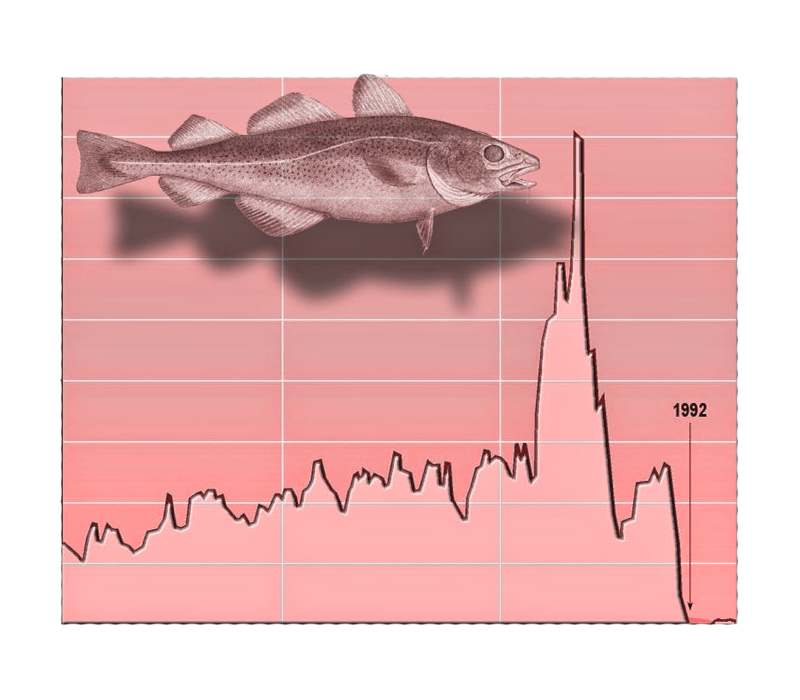
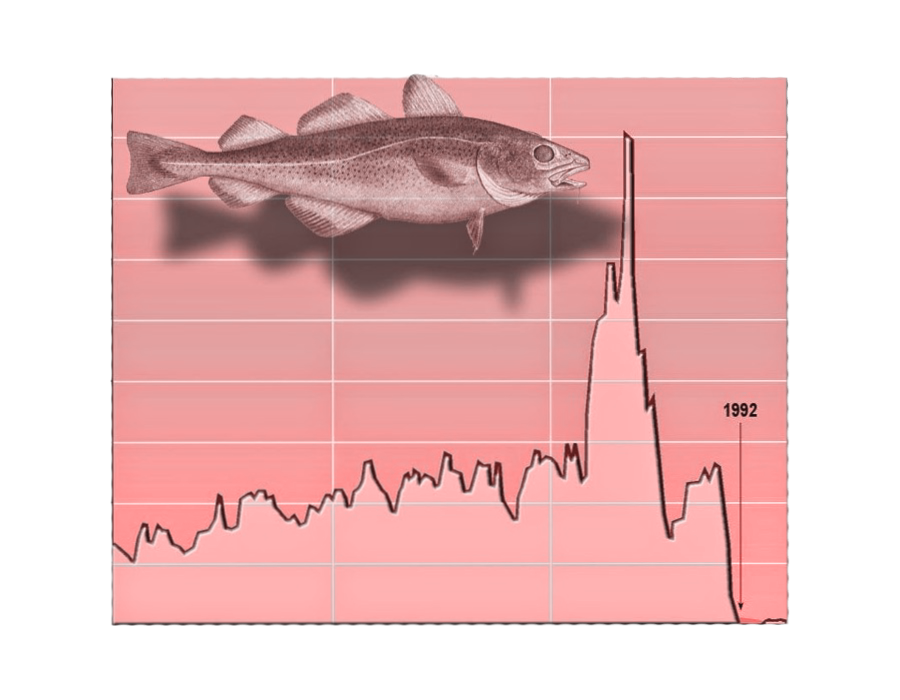
praise cod stuff

Changed region(s): [[0.0625, 0.09, 0.9375, 0.9], [0.5625, 0.39, 0.625, 0.45]]

diff --git a/praisecod.life/index.html b/praisecod.life/index.html
@@ -49,57 +49,120 @@
 			}
 
 			jQuery(function(){
-				function random(n) {
+				function imagePicker(n) {
 					return Math.floor(Math.random() * n);
 				}
-				var transition_time = 750;
-				var waiting_time = 350;
+
+				// starting times
+				var transition_time = Math.floor(Math.random() * (2500 - 350 + 1) + 350);
+				var waiting_time = Math.floor(Math.random() * (2000 - 250 + 1) + 250);
+				
 				var images = $('div#block img');
 				var n = images.length;
-				var current = random(n);
-				images.hide();
-				images.eq(current).show();
-				
-				//get the size of the container
-				var boxHeight = document.getElementById('block').offsetHeight;
-				var boxWidth = document.getElementById('block').offsetWidth;
-				
+				var current = imagePicker(n);
+								
 				//range of possible image scales
 				var objectMaxHeight = 200;
 				var objectMinHeight = 400;
-				
-				var interval_id = setInterval(function () {
-					images.eq(current).fadeOut(transition_time, function () {
-						current = random(n);
-						
-						//gets reference to selected image
-						var $domImage = images.eq(current);
-						
-						//generates random heights and widths for the image to be shown in
-						var generatedHeight = 
-								Math.floor(
-								Math.random() * (objectMaxHeight - objectMinHeight)
-							 ) + objectMinHeight;
 
-									// assigns values to the image
-						$domImage.css('height', generatedHeight); 
-						$domImage.css('width', "auto"); 
+				images.hide();
+				images.eq(current).show();
+
+				// Periodically, we fadeOut the current image and fadeIn a random one
+				var interval_id = setInterval( function(){
+					//get the size of the container
+					var boxHeight = document.getElementById('block').offsetHeight;
+					var boxWidth = document.getElementById('block').offsetWidth;
+					// new random time
+					transition_time = Math.floor(Math.random() * (1500 - 350 + 1) + 350);
+					waiting_time = Math.floor(Math.random() * (2000 - 250 + 1) + 250);
+
+				    images.eq( current ).fadeOut( 5, function(){
+				        current = imagePicker(n);
+				        images.eq(current).fadeIn(5);
+				        //generates random heights and widths for the image to be shown in
+						var generatedHeight =  Math.floor(Math.random() * (objectMaxHeight - objectMinHeight)) + objectMinHeight;
+
+				        // assigns values to the image
+						images.eq(current).css('height', generatedHeight); 
+						images.eq(current).css('width', "auto");
+
+						// reset position
+						images.eq(current).css('top', 0); 
+						images.eq(current).css('left', 0);
+						images.eq(current).css('right', 0); 
+						images.eq(current).css('bottom', 0);
+						images.eq(current).css('margin', 0); 
+
+						var imageAutoWidth = images.eq(current).width();
+						var generatedYLocation = Math.floor(Math.random() * (boxHeight - generatedHeight + 1)) + 0;
+						var generatedXLocation = Math.floor(Math.random() * (boxWidth - imageAutoWidth)) + 0;
 						
-						var imageAutoWidth = $domImage.width();
-						
-						var generatedYLocation = Math.floor(
-						  Math.random() * (boxHeight - generatedHeight + 1)
-						) + 0;
-						
-						var generatedXLocation = Math.floor(
-							Math.random() * (boxWidth - imageAutoWidth)
-						) + 0;
-						
-						$domImage.css('top', generatedYLocation);
-						$domImage.css('left', generatedXLocation);
-						$domImage.fadeIn(transition_time);
-					});
+						// pick one of the 4 edges of screen
+						var edge = Math.floor(Math.random() * 2);
+
+						if (edge == 0) { // left edge
+							images.eq(current).css({ WebkitTransform: 'rotate(90deg)'});
+							images.eq(current).css({ '-moz-transform': 'rotate(90deg)'});
+							images.eq(current).css({ '-ms-transform': 'rotate(90deg)'});
+							images.eq(current).css({ '-o-transform': 'rotate(90deg)'});
+							images.eq(current).css({ '-transform': 'rotate(90deg)'});
+
+							images.eq(current).css('left', -imageAutoWidth);
+							images.eq(current).animate({left: "+="+imageAutoWidth+"px"}, transition_time );
+							images.eq(current).css('top', generatedYLocation);
+
+							images.eq(current).animate({left: "-="+imageAutoWidth+"px"}, waiting_time );
+
+						} else if (edge == 1) { // top edge
+							images.eq(current).css({ WebkitTransform: 'rotate(180deg)'});
+							images.eq(current).css({ '-moz-transform': 'rotate(180deg)'});
+							images.eq(current).css({ '-ms-transform': 'rotate(180deg)'});
+							images.eq(current).css({ '-o-transform': 'rotate(180deg)'});
+							images.eq(current).css({ '-transform': 'rotate(180deg)'});
+
+							images.eq(current).css('top', -generatedHeight);
+							images.eq(current).animate({top: "+="+generatedHeight+"px"}, transition_time );
+							images.eq(current).css('left', generatedXLocation);
+
+							images.eq(current).animate({top: "-="+generatedHeight+"px"}, waiting_time );
+							
+						} else if (edge == 2) { // right edge
+							images.eq(current).css({ WebkitTransform: 'rotate(270deg)'});
+							images.eq(current).css({ '-moz-transform': 'rotate(270deg)'});
+							images.eq(current).css({ '-ms-transform': 'rotate(270deg)'});
+							images.eq(current).css({ '-o-transform': 'rotate(270deg)'});
+							images.eq(current).css({ '-transform': 'rotate(270deg)'});
+
+							images.eq(current).css('margin-right', '-'+imageAutoWidth+'px');
+							images.eq(current).css('left', 'calc(100% - '+imageAutoWidth+'px)');
+							images.eq(current).animate({left: "-="+imageAutoWidth+"px"}, transition_time );
+							images.eq(current).css('top', generatedYLocation);
+
+							images.eq(current).animate({left: "+="+imageAutoWidth+"px"}, waiting_time );
+
+						} else if (edge == 3) { // bottom edge
+							images.eq(current).css({ WebkitTransform: 'rotate(0deg)'});
+							images.eq(current).css({ '-moz-transform': 'rotate(0deg)'});
+							images.eq(current).css({ '-ms-transform': 'rotate(0deg)'});
+							images.eq(current).css({ '-o-transform': 'rotate(0deg)'});
+							images.eq(current).css({ '-transform': 'rotate(0deg)'});
+
+							images.eq(current).css('margin-bottom', +generatedHeight+'px');
+							images.eq(current).css('top', $(window).height()+generatedHeight);
+							images.eq(current).animate({top: "-="+generatedHeight+"px"}, transition_time );
+							images.eq(current).css('left', generatedXLocation);
+
+							images.eq(current).animate({top: "+="+generatedHeight+"px"}, waiting_time );
+						} else {
+							// error?
+						}
+						console.log("Edge: "+edge, "Image: "+images.eq(current), "Height: "+generatedHeight, "Duration: "+transition_time);
+				    } );
 				}, 2 * transition_time + waiting_time);
+
+				// You can then stop the effect with:
+				// clearInterval( interval_id );
 			})
 
 			function inIframe() {

diff --git a/praisecod.life/lib/css/style.css b/praisecod.life/lib/css/style.css
@@ -7,20 +7,18 @@
 #block img {
   position:relative; 
   top: 0;
-  left: 0;
-  height: 100px;
-  width: 100px;
+  left: -1000;
+  height: 0px;
+  width: 0px;
 }
 .graph {
-  width:800px;
+  width:900px;
   height:auto;
   position: absolute;
   left: 50%;
   top: 50%;
   -webkit-transform: translate(-50%, -50%);
   transform: translate(-50%, -50%);
-}
-.graph::before {
   content:url('../images/Graph1.png');
 }
 .graph:hover {
@@ -67,6 +65,7 @@
 	right:20px;
 }
 body{
+  margin: 0px;
 	background-color:white;
 	font-family:"Helvetica; Neue",helvetica,arial,sans-serif;
 }
